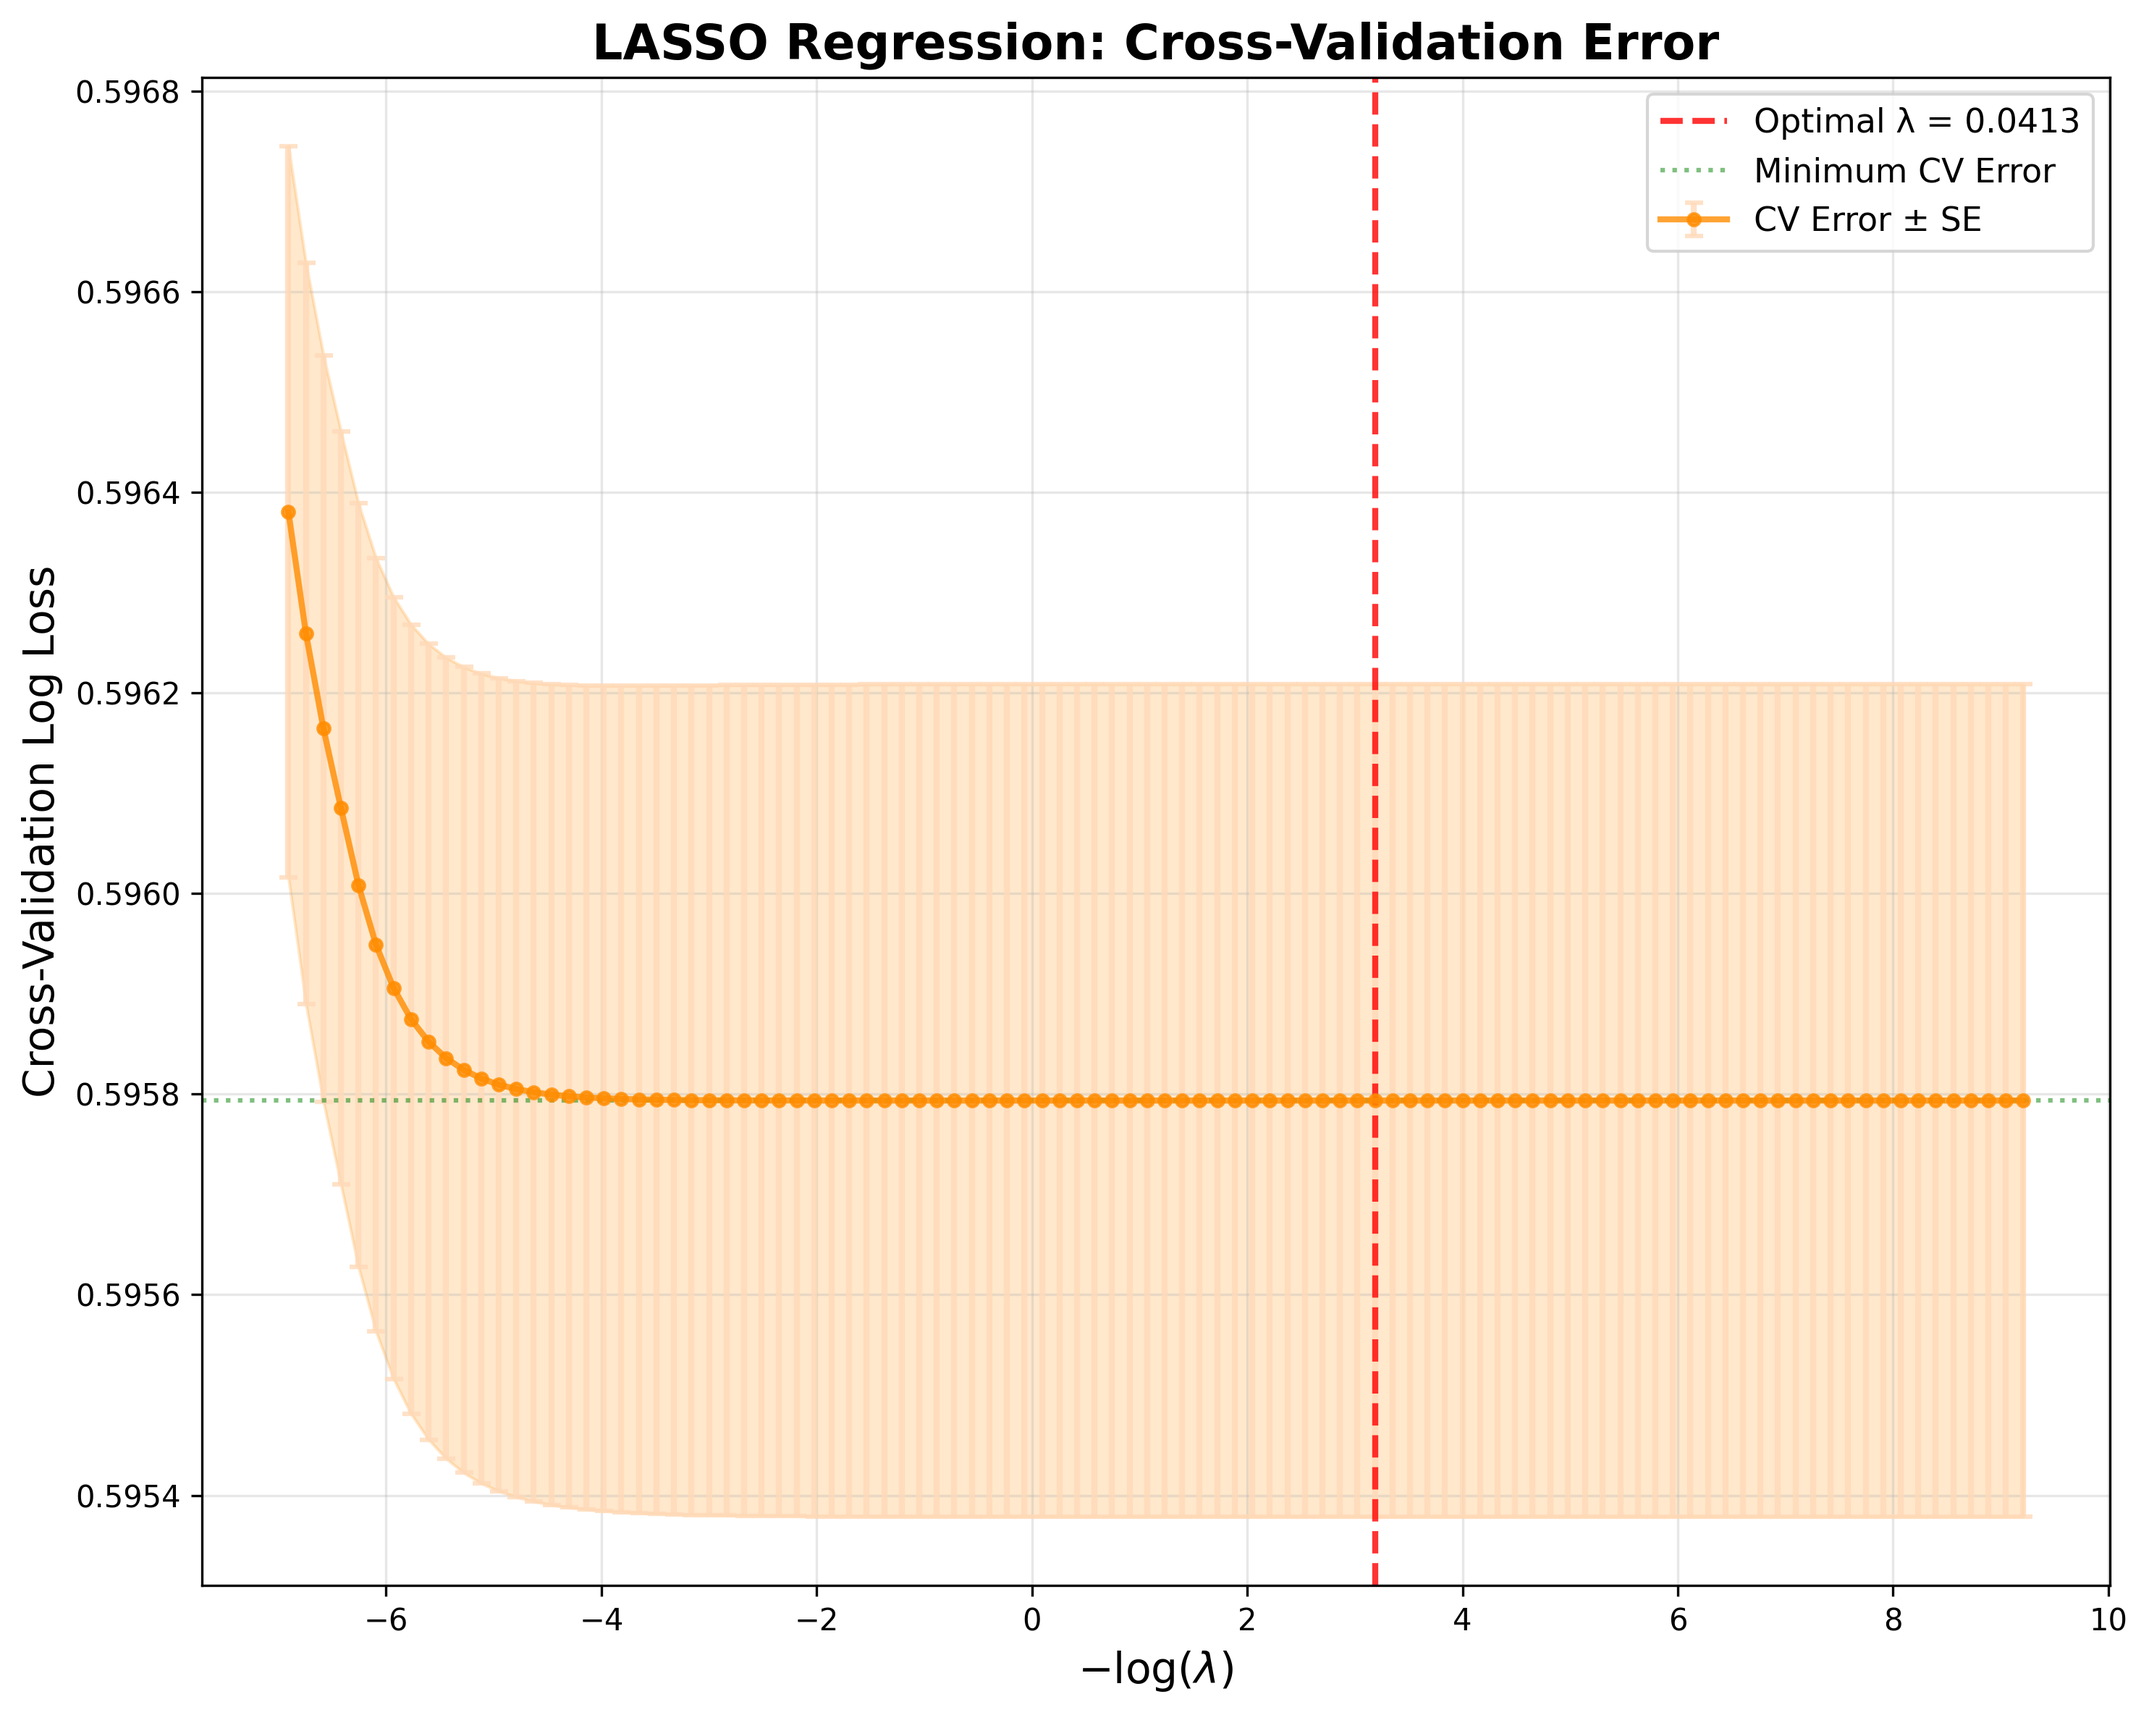
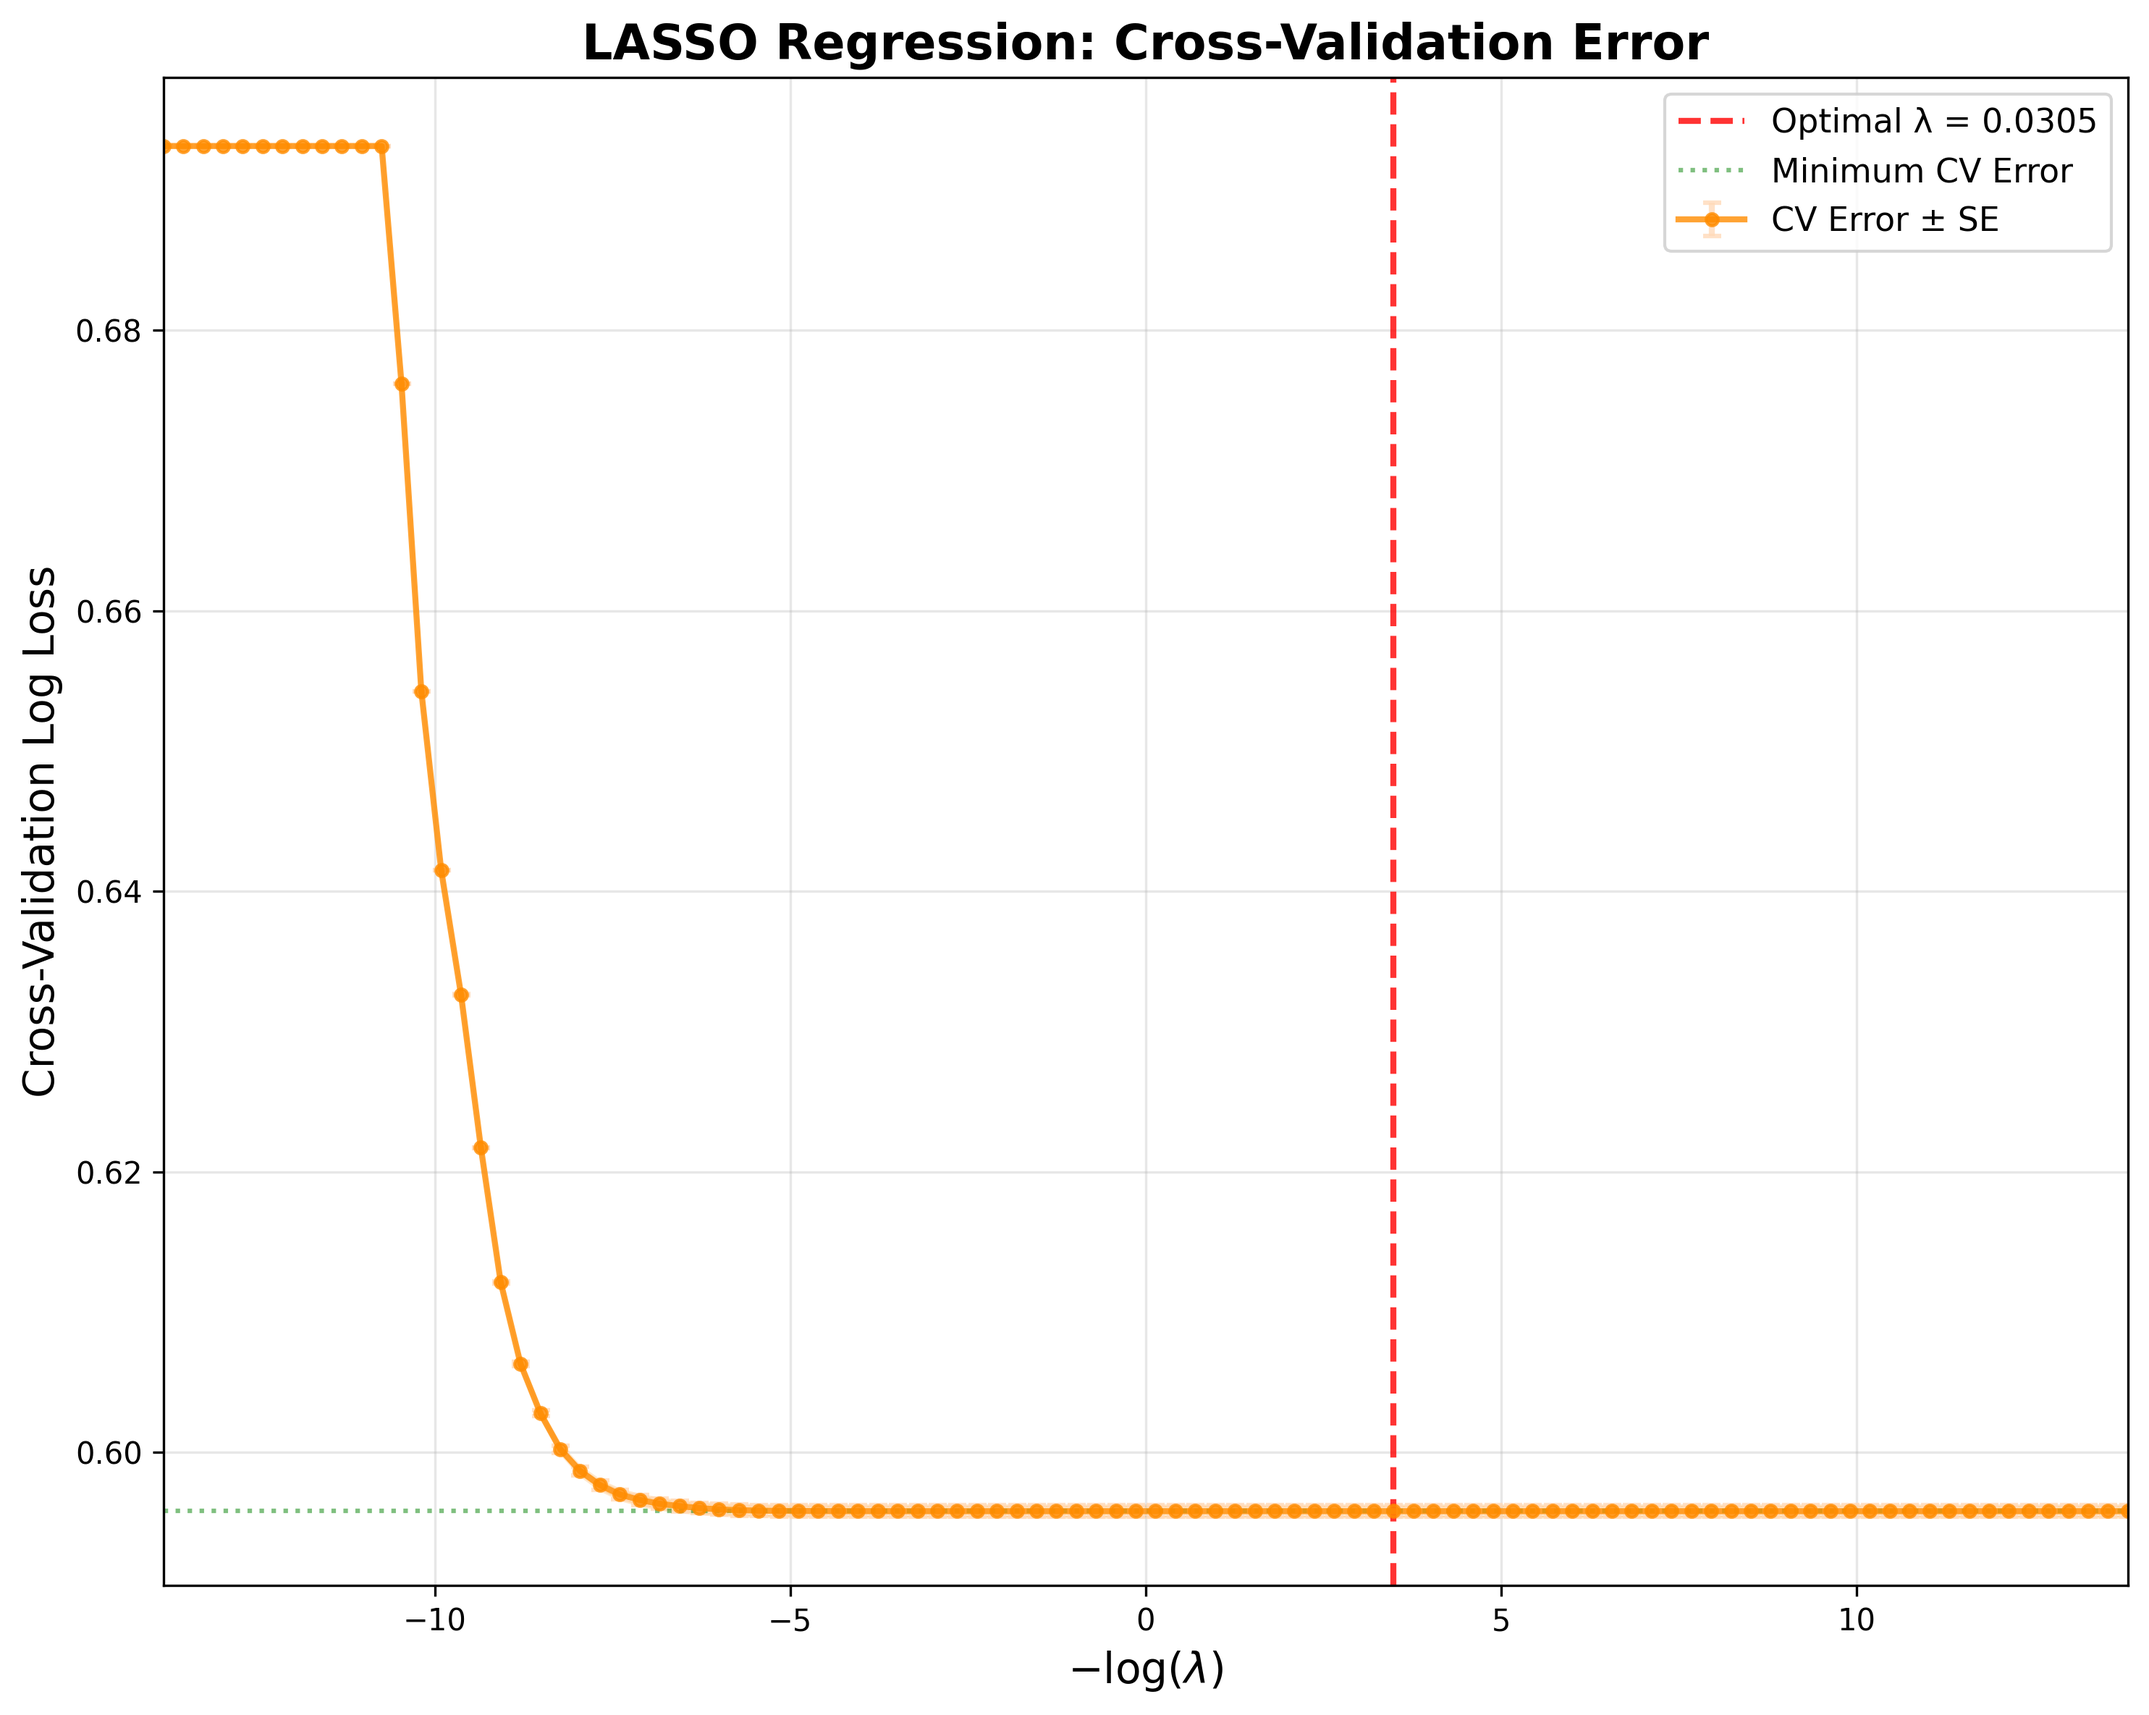
changes after report 3

diff --git a/Output/Tables/regression_table.tex b/Output/Tables/regression_table.tex
@@ -3,29 +3,29 @@
 \toprule
 \textbf{Dep. Variable:}        &      voted       & \textbf{  R-squared:         } &      0.054   \\
 \textbf{Model:}                &       OLS        & \textbf{  Adj. R-squared:    } &      0.054   \\
-\textbf{Method:}               &  Least Squares   & \textbf{  F-statistic:       } &      1961.   \\
-\textbf{Date:}                 & Sun, 21 Sep 2025 & \textbf{  Prob (F-statistic):} &      0.00    \\
-\textbf{Time:}                 &     18:26:48     & \textbf{  Log-Likelihood:    } & -2.1513e+05  \\
+\textbf{Method:}               &  Least Squares   & \textbf{  F-statistic:       } &      2245.   \\
+\textbf{Date:}                 & Tue, 23 Sep 2025 & \textbf{  Prob (F-statistic):} &      0.00    \\
+\textbf{Time:}                 &     11:34:33     & \textbf{  Log-Likelihood:    } & -2.1513e+05  \\
 \textbf{No. Observations:}     &      344084      & \textbf{  AIC:               } &  4.303e+05   \\
 \textbf{Df Residuals:}         &      344073      & \textbf{  BIC:               } &  4.304e+05   \\
 \textbf{Df Model:}             &          10      & \textbf{                     } &              \\
-\textbf{Covariance Type:}      &    nonrobust     & \textbf{                     } &              \\
+\textbf{Covariance Type:}      &       HC1        & \textbf{                     } &              \\
 \bottomrule
 \end{tabular}
 \begin{tabular}{lcccccc}
-                               & \textbf{coef} & \textbf{std err} & \textbf{t} & \textbf{P$> |$t$|$} & \textbf{[0.025} & \textbf{0.975]}  \\
+                               & \textbf{coef} & \textbf{std err} & \textbf{z} & \textbf{P$> |$z$|$} & \textbf{[0.025} & \textbf{0.975]}  \\
 \midrule
-\textbf{treatment\_civic duty} &       0.0181  &        0.003     &     7.163  &         0.000        &        0.013    &        0.023     \\
-\textbf{treatment\_hawthorne}  &       0.0254  &        0.003     &    10.031  &         0.000        &        0.020    &        0.030     \\
-\textbf{treatment\_neighbors}  &       0.0815  &        0.003     &    32.168  &         0.000        &        0.077    &        0.086     \\
-\textbf{treatment\_self}       &       0.0482  &        0.003     &    19.035  &         0.000        &        0.043    &        0.053     \\
+\textbf{treatment\_civic duty} &       0.0181  &        0.003     &     7.176  &         0.000        &        0.013    &        0.023     \\
+\textbf{treatment\_hawthorne}  &       0.0254  &        0.003     &    10.011  &         0.000        &        0.020    &        0.030     \\
+\textbf{treatment\_neighbors}  &       0.0815  &        0.003     &    31.102  &         0.000        &        0.076    &        0.087     \\
+\textbf{treatment\_self}       &       0.0482  &        0.003     &    18.701  &         0.000        &        0.043    &        0.053     \\
 \textbf{sex}                   &      -0.0059  &        0.002     &    -3.817  &         0.000        &       -0.009    &       -0.003     \\
-\textbf{yob}                   &      -0.0026  &     5.87e-05     &   -44.344  &         0.000        &       -0.003    &       -0.002     \\
-\textbf{g2000}                 &      -0.0238  &        0.002     &    -9.832  &         0.000        &       -0.029    &       -0.019     \\
-\textbf{g2002}                 &       0.0979  &        0.002     &    43.794  &         0.000        &        0.094    &        0.102     \\
-\textbf{g2004}                 &       5.2626  &        0.116     &    45.474  &         0.000        &        5.036    &        5.489     \\
-\textbf{p2000}                 &       0.0959  &        0.002     &    52.781  &         0.000        &        0.092    &        0.099     \\
-\textbf{p2002}                 &       0.1149  &        0.002     &    70.153  &         0.000        &        0.112    &        0.118     \\
+\textbf{yob}                   &      -0.0026  &     5.97e-05     &   -43.618  &         0.000        &       -0.003    &       -0.002     \\
+\textbf{g2000}                 &      -0.0238  &        0.002     &   -10.203  &         0.000        &       -0.028    &       -0.019     \\
+\textbf{g2002}                 &       0.0979  &        0.002     &    47.363  &         0.000        &        0.094    &        0.102     \\
+\textbf{g2004}                 &       5.2626  &        0.118     &    44.654  &         0.000        &        5.032    &        5.494     \\
+\textbf{p2000}                 &       0.0959  &        0.002     &    50.105  &         0.000        &        0.092    &        0.100     \\
+\textbf{p2002}                 &       0.1149  &        0.002     &    67.454  &         0.000        &        0.112    &        0.118     \\
 \bottomrule
 \end{tabular}
 \begin{tabular}{lclc}
@@ -39,6 +39,6 @@
 \end{center}
 
 Notes: \newline
- [1] Standard Errors assume that the covariance matrix of the errors is correctly specified. \newline
+ [1] Standard Errors are heteroscedasticity robust (HC1) \newline
  [2] The condition number is large, 2.94e+05. This might indicate that there are \newline
  strong multicollinearity or other numerical problems.

diff --git a/code/lasso.py b/code/lasso.py
@@ -45,8 +45,9 @@ def run_lasso_analysis():
     X_train_scaled = (X_train - train_mean) / train_std
     X_test_scaled = (X_test - train_mean) / train_std  # Use training parameters
     
-    # Set up regularization parameters (100 values from 10^-4 to 10^3)
-    lambdas = np.logspace(-4, 3, 100)
+    # Set up regularization parameters (100 values from 10^-6 to 10^6)
+    # Expanded range to match ISLR-style plots
+    lambdas = np.logspace(-6, 6, 100)
     Cs = 1 / lambdas  # LogisticRegression uses C = 1/lambda
     
     # Fit LASSO logistic regression with 5-fold CV to find optimal C
@@ -249,9 +250,13 @@ def create_coefficient_and_error_plots(results, paths):
     ax1.legend(loc='upper left', fontsize=9, framealpha=0.95)
     ax1.grid(True, alpha=0.3)
     
-    # Set y-axis limits to show full range
+    # Set y-axis limits to show full range including shrinkage
+    # Look at the full range of coefficients across all lambdas
     max_abs_coef = np.abs(coefficients_path).max()
-    ax1.set_ylim([-max_abs_coef*1.1, max_abs_coef*1.1])
+    ax1.set_ylim([-max_abs_coef*1.2, max_abs_coef*1.2])
+    
+    # Set x-axis limits to show full lambda range
+    ax1.set_xlim([np.log(actual_lambdas).min(), np.log(actual_lambdas).max()])
     
     plt.tight_layout()
     plt.savefig(paths['plots'] + 'lasso_coefficients.png', dpi=300, bbox_inches='tight')
@@ -293,6 +298,17 @@ def create_coefficient_and_error_plots(results, paths):
     ax2.set_title('LASSO Regression: Cross-Validation Error', fontsize=16, fontweight='bold')
     ax2.legend(loc='upper right', fontsize=11)
     ax2.grid(True, alpha=0.3)
+    
+    # Set x-axis limits to match coefficient plot
+    ax2.set_xlim([np.log(actual_lambdas).min(), np.log(actual_lambdas).max()])
+    
+    # Allow y-axis to show the full range of variation
+    # Don't force it to zoom in too much
+    y_range = cv_means_positive.max() - cv_means_positive.min()
+    if y_range < 0.01:  # If range is very small
+        # Add some padding to show the pattern better
+        y_center = (cv_means_positive.max() + cv_means_positive.min()) / 2
+        ax2.set_ylim([y_center - 0.005, y_center + 0.005])
     
     plt.tight_layout()
     plt.savefig(paths['plots'] + 'lasso_cv_error.png', dpi=300, bbox_inches='tight')

diff --git a/code/ridge.py b/code/ridge.py
@@ -45,8 +45,9 @@ def run_ridge_analysis():
     X_train_scaled = (X_train - train_mean) / train_std
     X_test_scaled = (X_test - train_mean) / train_std  # Use training parameters
     
-    # Set up regularization parameters (100 values from 10^-4 to 10^3)
-    lambdas = np.logspace(-4, 3, 100)
+    # Set up regularization parameters (100 values from 10^-6 to 10^6)
+    # Expanded range to match ISLR-style plots
+    lambdas = np.logspace(-6, 6, 100)
     Cs = 1 / lambdas  # LogisticRegression uses C = 1/lambda
     
     # Fit Ridge logistic regression with 5-fold CV to find optimal C
@@ -234,9 +235,13 @@ def create_coefficient_and_error_plots(results, paths):
     ax1.legend(loc='upper left', fontsize=9, framealpha=0.95)
     ax1.grid(True, alpha=0.3)
     
-    # Set y-axis limits to show full range
+    # Set y-axis limits to show full range including shrinkage
+    # Look at the full range of coefficients across all lambdas
     max_abs_coef = np.abs(coefficients_path).max()
-    ax1.set_ylim([-max_abs_coef*1.1, max_abs_coef*1.1])
+    ax1.set_ylim([-max_abs_coef*1.2, max_abs_coef*1.2])
+    
+    # Set x-axis limits to show full lambda range
+    ax1.set_xlim([np.log(actual_lambdas).min(), np.log(actual_lambdas).max()])
     
     plt.tight_layout()
     plt.savefig(paths['plots'] + 'ridge_coefficients.png', dpi=300, bbox_inches='tight')
@@ -278,6 +283,17 @@ def create_coefficient_and_error_plots(results, paths):
     ax2.set_title('Ridge Regression: Cross-Validation Error', fontsize=16, fontweight='bold')
     ax2.legend(loc='upper right', fontsize=11)
     ax2.grid(True, alpha=0.3)
+    
+    # Set x-axis limits to match coefficient plot
+    ax2.set_xlim([np.log(actual_lambdas).min(), np.log(actual_lambdas).max()])
+    
+    # Allow y-axis to show the full range of variation
+    # Don't force it to zoom in too much
+    y_range = cv_means_positive.max() - cv_means_positive.min()
+    if y_range < 0.01:  # If range is very small
+        # Add some padding to show the pattern better
+        y_center = (cv_means_positive.max() + cv_means_positive.min()) / 2
+        ax2.set_ylim([y_center - 0.005, y_center + 0.005])
     
     plt.tight_layout()
     plt.savefig(paths['plots'] + 'ridge_cv_error.png', dpi=300, bbox_inches='tight')

diff --git a/code/main.py b/code/main.py
@@ -1,8 +1,6 @@
 # Replication code for ECO1465 Term Project
 from analysis import summary_statistics
 from ols import generate_regression_table
-from ridge import generate_ridge_table, create_ridge_coefficient_plot, create_ridge_cv_plot
-from lasso import generate_lasso_table, create_lasso_coefficient_plot, create_lasso_cv_plot
 import utils
 import pandas as pd
 
@@ -11,13 +9,3 @@ summary_statistics()
 
 # run all regression analyses
 generate_regression_table()
-generate_ridge_table()
-generate_lasso_table()
-
-# create Ridge plots
-create_ridge_coefficient_plot()
-create_ridge_cv_plot()
-
-# create Lasso plots
-create_lasso_coefficient_plot()
-create_lasso_cv_plot()

diff --git a/code/ols.py b/code/ols.py
@@ -32,7 +32,7 @@ def run_ols_analysis():
     X = sm.add_constant(X)
 
     # Run OLS regression
-    model = sm.OLS(y, X).fit()
+    model = sm.OLS(y, X).fit(cov_type = 'HC1')
 
     return {
         'model': model,
